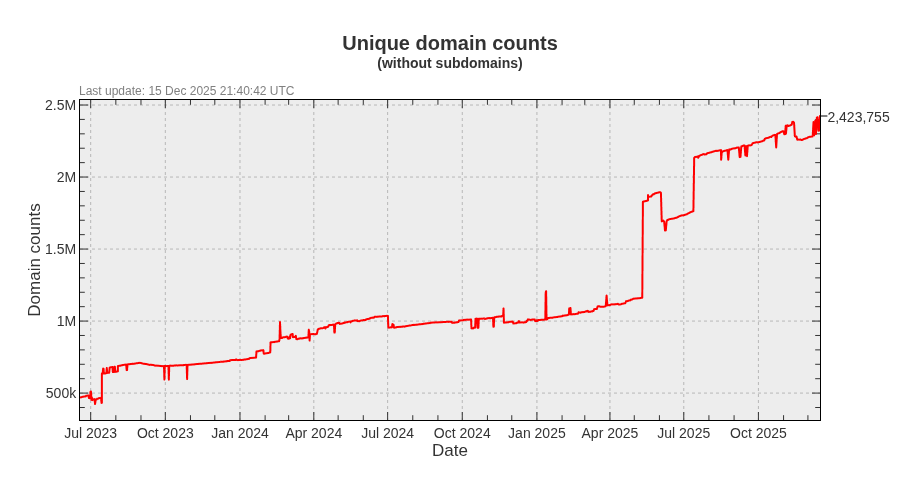
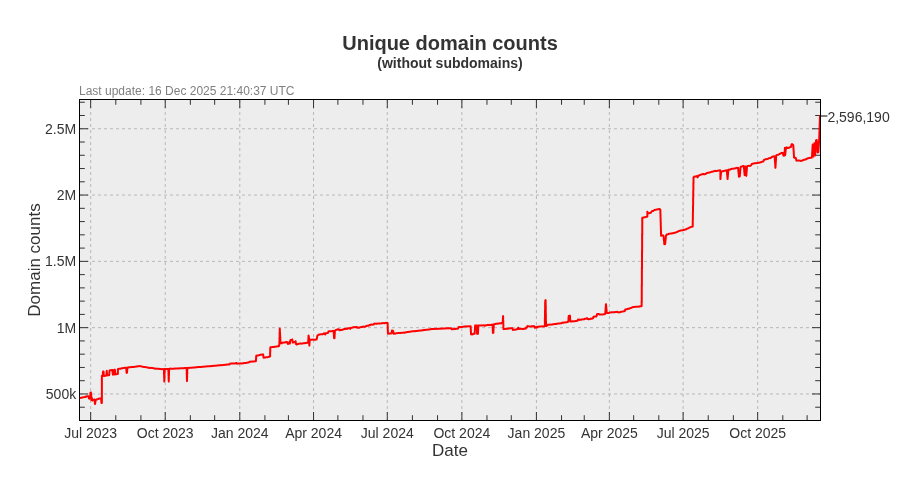
Update pages

diff --git a/README.md b/README.md
@@ -3,22 +3,22 @@ A blocklist file for blocking ads, trackers and malware domains.
 
[1 lines of base64/hex data omitted]
 
-- Unique domains: 3,136,079
-- Without subdomains: 2,423,755
-- Last update: 15 Dec 2025 21:40:42 UTC
-- Version: 2025.12.15.01
+- Unique domains: 3,323,262
+- Without subdomains: 2,596,190
+- Last update: 16 Dec 2025 21:40:37 UTC
+- Version: 2025.12.16.01
 
 
 ### Downloads:
 
 | Format             | Domain count      | Download Link |
 |:------------------ | -----------------:|:-------------:|
-| *Adblock Plus*     | 2,423,755 | [Download](https://dl.cenk.app/bad-hosts/bad-hosts-abp) |
-| *Wildcard domains* | 2,423,755 | [Download](https://dl.cenk.app/bad-hosts/bad-hosts-wildcard) |
-| *dnsmasq*          | 2,423,755 | [Download](https://dl.cenk.app/bad-hosts/bad-hosts-dnsmasq) |
-| *hosts*            | 3,136,079 | [Download](https://dl.cenk.app/bad-hosts/hosts) |
-| *hosts (ipv6)*     | 3,136,079 | [Download](https://dl.cenk.app/bad-hosts/hosts-ipv6) |
-| *Plain domains*    | 3,136,079 | [Download](https://dl.cenk.app/bad-hosts/bad-hosts-domains) |
+| *Adblock Plus*     | 2,596,190 | [Download](https://dl.cenk.app/bad-hosts/bad-hosts-abp) |
+| *Wildcard domains* | 2,596,190 | [Download](https://dl.cenk.app/bad-hosts/bad-hosts-wildcard) |
+| *dnsmasq*          | 2,596,190 | [Download](https://dl.cenk.app/bad-hosts/bad-hosts-dnsmasq) |
+| *hosts*            | 3,323,262 | [Download](https://dl.cenk.app/bad-hosts/hosts) |
+| *hosts (ipv6)*     | 3,323,262 | [Download](https://dl.cenk.app/bad-hosts/hosts-ipv6) |
+| *Plain domains*    | 3,323,262 | [Download](https://dl.cenk.app/bad-hosts/bad-hosts-domains) |
 
 ### Domain count history
 #### With subdomains
